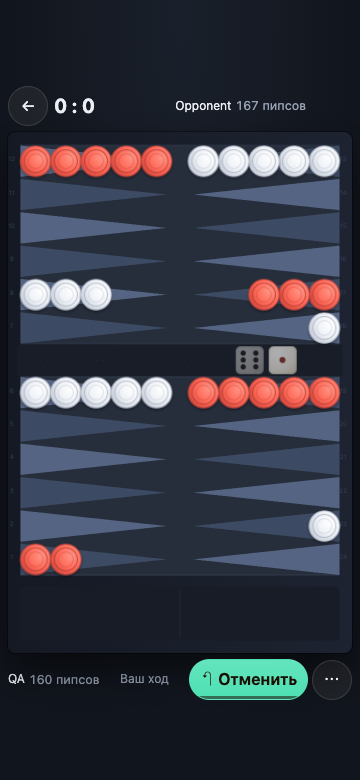
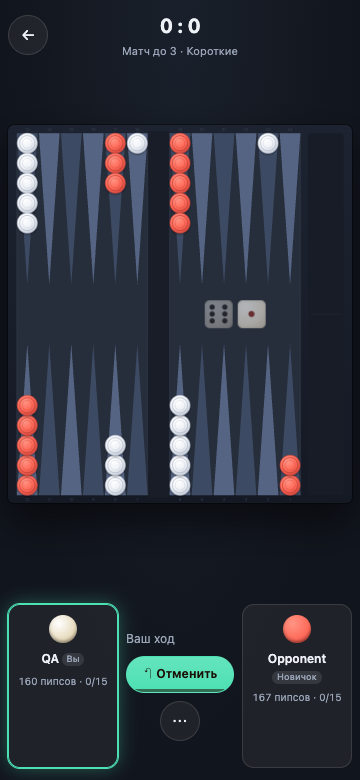
feat(web): restore unrotated board and player panels on phones

diff --git a/apps/web/src/screens/Game.tsx b/apps/web/src/screens/Game.tsx
@@ -34,17 +34,17 @@ interface Pending {
   ts: TurnState;
 }
 
-function useVertical(): boolean {
+function useCompactLayout(): boolean {
   const query = '(orientation: portrait) and (max-width: 767px)';
-  const [vertical, setVertical] = useState(() => matchMedia(query).matches);
+  const [compact, setCompact] = useState(() => matchMedia(query).matches);
   useEffect(() => {
     const media = matchMedia(query);
-    const update = () => setVertical(media.matches);
+    const update = () => setCompact(media.matches);
     update();
     media.addEventListener('change', update);
     return () => media.removeEventListener('change', update);
   }, []);
-  return vertical;
+  return compact;
 }
 
 function useNow(active: boolean, every = 250): number {
@@ -72,7 +72,7 @@ function stepSound(s: Step) {
 
 export function GameScreen({ onExit }: { onExit: () => void }) {
   const T = useT();
-  const vertical = useVertical();
+  const compact = useCompactLayout();
   const [moreOpen, setMoreOpen] = useState(false);
   const g = useGame();
   const st = useSettings();
@@ -420,37 +420,25 @@ export function GameScreen({ onExit }: { onExit: () => void }) {
     );
   };
 
-  const compactPlayer = (c: Color) => {
-    const clock = clockFor(c);
-    return <div className="compact-player">
-      <span className="compact-name">{nameOf(c)}</span>
-      {g.players[c] && !g.players[c]!.connected && <span className="tag warn">{T.offline}</span>}
-      <span className="pmeta" data-pips={c === viewer ? 'me' : 'opp'}>{pipCount(board, c)} {T.pips}</span>
-      {clock && <span className={'clock' + (clock.low ? ' low' : '')}>{clock.text}</span>}
-      {m.cube.owner === c && m.settings.cube && <Cube value={m.cube.value} />}
-    </div>;
-  };
-
   const nextIn = clocks?.nextGameAt ? Math.max(0, clocks.nextGameAt - (g.mode === 'online' ? serverNow : now)) : null;
 
   return (
-    <div className={'game theme-' + st.theme + (vertical ? ' phone-game' : '')}>
+    <div className={'game theme-' + st.theme + (compact ? ' phone-game' : '')}>
       <header className="game-top">
         <button className="icon-btn" onClick={onExit} aria-label={T.toMenu}>
           ←
         </button>
         <div className="score">
-          {!vertical && <span>{nameOf(0)}</span>}
+          {!compact && <span>{nameOf(0)}</span>}
           <b>
             {m.score[0]} : {m.score[1]}
           </b>
-          {!vertical && <span>{nameOf(1)}</span>}
-          {!vertical && <small>
+          {!compact && <span>{nameOf(1)}</span>}
+          <small>
             {T.matchLength} {m.settings.matchLength} · {variant === 'long' ? T.long : T.short}
             {m.crawford ? ` · ${T.crawford}` : ''}
-          </small>}
+          </small>
         </div>
-        {vertical && compactPlayer(opp)}
         {g.mode === 'online' ? (
           <button className="icon-btn" onClick={() => setChatOpen((o) => !o)} aria-label={T.chat}>
             💬{g.chat.length > 0 && !chatOpen ? <i className="dot" /> : null}
@@ -460,11 +448,11 @@ export function GameScreen({ onExit }: { onExit: () => void }) {
         )}
       </header>
 
-      {!vertical && playerBar(opp)}
+      {!compact && playerBar(opp)}
 
-      <div className={'board-wrap' + (vertical ? ' vertical' : '')}>
+      <div className={'board-wrap' + (compact ? ' compact-board' : '')}>
         <BoardView
-          vertical={vertical}
+          cross={compact ? 1100 : 800}
           board={board}
           variant={variant}
           viewer={viewer}
@@ -511,7 +499,7 @@ export function GameScreen({ onExit }: { onExit: () => void }) {
             {!st.autoRoll && <button className="btn primary big" onClick={doRoll}>
               🎲 {T.roll}
             </button>}
-            {mayDouble && !doubled && !vertical && (
+            {mayDouble && !doubled && !compact && (
               <button className="btn gold" onClick={() => { setDoubled(true); ctrl.double(); }}>
                 ×2 {T.double}
                 {st.autoRoll && <i className="countdown" style={{ ['--ms' as string]: `${DOUBLE_MS}ms` }} />}
@@ -617,10 +605,11 @@ export function GameScreen({ onExit }: { onExit: () => void }) {
         {g.conn !== 'open' && <div className="conn-banner">{g.conn === 'connecting' ? T.connecting : T.reconnecting}</div>}
       </div>
 
-      {!vertical && playerBar(viewer, true)}
+      {!compact && playerBar(viewer, true)}
 
+      <div className={compact ? 'mobile-hud' : 'desktop-hud'}>
+      {compact && playerBar(viewer, true)}
       <div className="controls">
-        {vertical && compactPlayer(viewer)}
         <span className="status">{statusText}</span>
         {pending && !sent && (
           <>
@@ -644,20 +633,23 @@ export function GameScreen({ onExit }: { onExit: () => void }) {
             {T.claimWin}
           </button>
         )}
-        {!vertical && m.phase !== 'gameover' && m.phase !== 'matchover' && (g.mode === 'local' || act !== null) && (
+        {!compact && m.phase !== 'gameover' && m.phase !== 'matchover' && (g.mode === 'local' || act !== null) && (
           <button className="btn subtle" onClick={() => setConfirmResign(true)}>
             ⚑ {T.resign}
           </button>
         )}
-        {vertical && mayDouble && !doubled && <button className="btn gold" onClick={() => { setDoubled(true); ctrl.double(); }}>
+        {compact && mayDouble && !doubled && <button className="btn gold" onClick={() => { setDoubled(true); ctrl.double(); }}>
           ×2 {T.double}
           {st.autoRoll && <i className="countdown" style={{ ['--ms' as string]: `${DOUBLE_MS}ms` }} />}
         </button>}
-        {vertical && <button className="icon-btn" aria-label={T.more} onClick={() => setMoreOpen((open) => !open)}>⋯</button>}
+        {compact && <button className="icon-btn" aria-label={T.more} onClick={() => setMoreOpen((open) => !open)}>⋯</button>}
       </div>
 
-      {(!vertical || moreOpen) && <div className={vertical ? 'phone-more' : undefined}>
-      {vertical && <button className="icon-btn" aria-label={T.back} onClick={() => setMoreOpen(false)}>✕</button>}
+      {compact && playerBar(opp)}
+      </div>
+
+      {(!compact || moreOpen) && <div className={compact ? 'phone-more' : undefined}>
+      {compact && <button className="icon-btn" aria-label={T.back} onClick={() => setMoreOpen(false)}>✕</button>}
       <div className="emoji-bar">
         {EMOJIS.map((e) => (
           <button key={e} onClick={() => ctrl.emoji(e)} aria-label={e}>
@@ -666,7 +658,7 @@ export function GameScreen({ onExit }: { onExit: () => void }) {
         ))}
       </div>
 
-      {vertical && <button className="btn subtle" onClick={() => { setMoreOpen(false); setConfirmResign(true); }}>⚑ {T.resign}</button>}
+      {compact && <button className="btn subtle" onClick={() => { setMoreOpen(false); setConfirmResign(true); }}>⚑ {T.resign}</button>}
       </div>}
 
       {chatOpen && g.mode === 'online' && (

diff --git a/apps/web/src/components/Board.tsx b/apps/web/src/components/Board.tsx
@@ -23,7 +23,7 @@ import type { Theme } from '../lib/settings';
 
 export interface BoardProps {
   board: BoardT;
-  vertical: boolean;
+  cross?: 800 | 1100;
   variant: Variant;
   viewer: Color;
   theme: Theme;
@@ -45,7 +45,7 @@ export interface BoardProps {
 
 // ───────────────────────────── static board ─────────────────────────────
 
-const Defs = ({ th, id, vertical }: { th: BoardTheme; id: string; vertical: boolean }) => (
+const Defs = ({ th, id }: { th: BoardTheme; id: string }) => (
   <defs>
     <filter id={`${id}-grain`} x="0" y="0" width="100%" height="100%">
       <feTurbulence type="fractalNoise" baseFrequency="0.0035 0.09" numOctaves="3" seed="7" />
@@ -58,10 +58,10 @@ const Defs = ({ th, id, vertical }: { th: BoardTheme; id: string; vertical: bool
       <feComposite in2="SourceGraphic" operator="in" />
     </filter>
     <filter id={`${id}-shadow`} x="-30%" y="-30%" width="160%" height="160%">
-      <feDropShadow dx={vertical ? 3 : 0} dy={vertical ? 0 : 3} stdDeviation="2.5" floodColor="#000" floodOpacity="0.45" />
+      <feDropShadow dx="0" dy="3" stdDeviation="2.5" floodColor="#000" floodOpacity="0.45" />
     </filter>
     <filter id={`${id}-lift`} x="-50%" y="-50%" width="200%" height="200%">
-      <feDropShadow dx={vertical ? 8 : 0} dy={vertical ? 0 : 8} stdDeviation="5" floodColor="#000" floodOpacity="0.45" />
+      <feDropShadow dx="0" dy="8" stdDeviation="5" floodColor="#000" floodOpacity="0.45" />
     </filter>
     <filter id={`${id}-glow`} x="-50%" y="-50%" width="200%" height="200%">
       <feGaussianBlur stdDeviation="4" result="b" />
@@ -94,7 +94,7 @@ function pointPath(slot: number, g: Geometry): string {
   return `M${cx - half},${BOTTOM} L${cx + half},${BOTTOM} L${cx},${BOTTOM - POINT_LEN} Z`;
 }
 
-const StaticBoard = memo(function StaticBoard({ th, id, g, vertical }: { th: BoardTheme; id: string; g: Geometry; vertical: boolean }) {
+const StaticBoard = memo(function StaticBoard({ th, id, g }: { th: BoardTheme; id: string; g: Geometry }) {
   const { TOP, BOTTOM, MID_Y, VB_H } = g;
   const fieldRects = [
     { x: LEFT_X, w: PW * 6 },
@@ -121,7 +121,7 @@ const StaticBoard = memo(function StaticBoard({ th, id, g, vertical }: { th: Boa
       <rect x={TRAY_X} y={TOP} width={TRAY_W} height={BOTTOM - TOP} rx="8" fill={th.tray} />
       <line x1={TRAY_X + 8} y1={MID_Y} x2={TRAY_X + TRAY_W - 8} y2={MID_Y} stroke={th.inlay} strokeOpacity="0.45" />
       {Array.from({ length: 24 }, (_, s) => (
-        <text key={s} transform={vertical ? `rotate(-90 ${slotX(s)} ${isTop(s) ? TOP - 7 : BOTTOM + 17})` : undefined} x={slotX(s)} y={isTop(s) ? TOP - 7 : BOTTOM + 17} fontSize="12" textAnchor="middle" fill={th.inlay} opacity="0.75" style={{ userSelect: 'none' }}>
+        <text key={s} x={slotX(s)} y={isTop(s) ? TOP - 7 : BOTTOM + 17} fontSize="12" textAnchor="middle" fill={th.inlay} opacity="0.75" style={{ userSelect: 'none' }}>
           {s + 1}
         </text>
       ))}
@@ -143,7 +143,7 @@ interface CheckerRender {
 }
 
 export function BoardView(p: BoardProps) {
-  const g = useMemo(() => geom(p.vertical ? 660 : 800), [p.vertical]);
+  const g = useMemo(() => geom(p.cross ?? 800), [p.cross]);
   const { TOP, BOTTOM, MID_Y, VB_H, checkerPos, offPos, barPos, locAt } = g;
   const th = THEMES[p.theme];
   const uid = 'b' + p.theme;
@@ -192,9 +192,7 @@ export function BoardView(p: BoardProps) {
   const toSvg = (e: React.PointerEvent) => {
     const svg = svgRef.current!;
     const r = svg.getBoundingClientRect();
-    const X = ((e.clientX - r.left) / r.width) * (p.vertical ? 660 : VB_W);
-    const Y = ((e.clientY - r.top) / r.height) * (p.vertical ? VB_W : 800);
-    return p.vertical ? { x: Y, y: 660 - X } : { x: X, y: Y };
+    return { x: ((e.clientX - r.left) / r.width) * VB_W, y: ((e.clientY - r.top) / r.height) * VB_H };
   };
 
   const onPointerDown = (e: React.PointerEvent) => {
@@ -237,7 +235,7 @@ export function BoardView(p: BoardProps) {
     <svg
       ref={svgRef}
       className="board-svg"
-      viewBox={p.vertical ? '0 0 660 1000' : `0 0 ${VB_W} ${VB_H}`}
+      viewBox={`0 0 ${VB_W} ${VB_H}`}
       role="img"
       aria-label={p.label}
       onPointerDown={onPointerDown}
@@ -248,9 +246,9 @@ export function BoardView(p: BoardProps) {
         setGhost(null);
       }}
     >
-      <Defs th={th} id={uid} vertical={p.vertical} />
-      <g transform={p.vertical ? 'matrix(0 1 -1 0 660 0)' : undefined}>
-      <StaticBoard th={th} id={uid} g={g} vertical={p.vertical} />
+      <Defs th={th} id={uid} />
+      <g>
+      <StaticBoard th={th} id={uid} g={g} />
 
       {/* last move markers */}
       {[...p.lastMove].map((loc) =>
@@ -306,7 +304,7 @@ export function BoardView(p: BoardProps) {
                   </g>
                 )}
                 {c.top && c.count > 5 && (
-                  <text transform={p.vertical ? 'rotate(-90)' : undefined} y="0" dominantBaseline="central" fontSize="26" fontWeight="700" textAnchor="middle" fill={c.color === 0 ? '#3a2a14' : '#fff'}>
+                  <text y="0" dominantBaseline="central" fontSize="26" fontWeight="700" textAnchor="middle" fill={c.color === 0 ? '#3a2a14' : '#fff'}>
                     {c.count}
                   </text>
                 )}

diff --git a/apps/web/src/styles.css b/apps/web/src/styles.css
@@ -873,22 +873,23 @@ input:focus {
 .undo-send, .center-actions .btn.gold, .controls .btn.gold { position: relative; overflow: hidden; }
 @media (prefers-reduced-motion: reduce) { .countdown { animation: none; opacity: 0; } }
 
-.board-wrap.vertical { min-height: 0; aspect-ratio: 660 / 1000; width: min(100%, calc((100dvh - 120px) * 0.66)); --die: 8cqw; }
-.board-wrap.vertical .dice-tray, .board-wrap.vertical .dice-tray.single { top: 43.8%; }
-.board-wrap.vertical .dice-tray.right { left: 75%; }
-.board-wrap.vertical .dice-tray.left { left: 25%; }
-.board-wrap.vertical .center-actions { top: 72%; left: 50%; }
-.board-wrap.vertical .toast { top: 30%; left: 50%; }
-.board-wrap.vertical .ck.dragging { filter: drop-shadow(10px 0 8px rgba(0, 0, 0, 0.45)); }
-.board-wrap.vertical .cup-layer { left: 50%; top: 72%; }
-.phone-game .game-top { gap: 6px; }
-.phone-game .score { display: block; flex: none; }
-.compact-player { display: flex; align-items: center; gap: 4px; min-width: 0; flex-wrap: wrap; font-size: 12px; }
-.compact-name { max-width: 100px; overflow: hidden; text-overflow: ellipsis; white-space: nowrap; }
-.phone-game .game-top .compact-player { flex: 1; justify-content: flex-end; }
-.phone-game .controls { flex-wrap: wrap; gap: 4px; }
-.phone-game .controls .compact-player { margin-right: auto; }
-.phone-game .controls .status { flex: none; font-size: 12px; }
-.phone-game .controls .btn { padding: 8px 10px; }
-.phone-game .clock { font-size: 12px; padding: 2px 4px; }
+
+/* Portrait phone composition: unrotated board, both players below it. */
+.desktop-hud { display: contents; }
+.phone-game { justify-content: flex-start; padding-top: max(12px, env(safe-area-inset-top)); padding-bottom: max(12px, env(safe-area-inset-bottom)); gap: 12px; }
+.phone-game .game-top { gap: 8px; padding-top: 0; }
+.phone-game .score { grid-template-columns: 1fr; gap: 3px; }
+.phone-game .score small { font-size: 11px; }
+.board-wrap.compact-board { min-height: 0; aspect-ratio: 1000 / 1100; width: min(100%, calc((100dvh - 290px) * 1000 / 1100)); margin-top: clamp(12px, 7dvh, 56px); --die: 8cqw; }
+.mobile-hud { width: 100%; display: grid; grid-template-columns: minmax(0, 1fr) 108px minmax(0, 1fr); align-items: stretch; gap: 8px; margin-top: auto; min-height: 164px; }
+.mobile-hud .pbar { flex-direction: column; justify-content: center; text-align: center; padding: 10px 4px; gap: 8px; }
+.mobile-hud .pchip { width: 28px; height: 28px; flex: none; }
+.mobile-hud .pinfo { width: 100%; }
+.mobile-hud .pname { justify-content: center; flex-wrap: wrap; white-space: normal; overflow-wrap: anywhere; font-size: 12px; gap: 3px; }
+.mobile-hud .pmeta { font-size: 10px; margin-top: 6px; }
+.mobile-hud .tag { font-size: 9px; }
+.mobile-hud .clock { margin: 0; font-size: 12px; padding: 3px 5px; }
+.mobile-hud .controls { width: 100%; flex-direction: column; justify-content: center; flex-wrap: nowrap; gap: 8px; }
+.mobile-hud .controls .status { flex: none; text-align: center; font-size: 12px; }
+.mobile-hud .controls .btn { width: 100%; padding: 9px 4px; font-size: 12px; }
 .phone-more { position: absolute; z-index: 10; bottom: 12px; left: 8px; right: 8px; background: var(--bg); border: 1px solid var(--panel-b); border-radius: 12px; padding: 8px; box-shadow: 0 6px 30px #0008; }

diff --git a/apps/web/src/components/geometry.ts b/apps/web/src/components/geometry.ts
@@ -92,13 +92,13 @@ export function assignIds(prev: Map<Loc, number[]> | null, counts: Map<Loc, numb
   return next;
 }
 
-/** Board-local coordinates; callers rotate the 660-unit board clockwise. */
-export function geom(cross: 800 | 660) {
+/** Unrotated board coordinates; portrait phones use longer points. */
+export function geom(cross: 800 | 1100) {
   const VB_H = cross;
   const TOP = FRAME;
   const BOTTOM = cross - FRAME;
   const MID_Y = cross / 2;
-  const POINT_LEN = cross === 660 ? 280 : 320;
+  const POINT_LEN = cross === 1100 ? 440 : 320;
 function checkerPos(slot: number, k: number, n: number): { x: number; y: number } {
   const sp = stackSpacing(n);
   const x = slotX(slot);

diff --git a/docs/superpowers/plans/2026-11-15-mobile-ux-rejoin.md b/docs/superpowers/plans/2026-11-15-mobile-ux-rejoin.md
@@ -478,3 +478,10 @@ Round 3 (Opus, fresh context) — 0 P0/P1; rounds 1-2 fixes confirmed by executi
 | 1440x900 | malachite | 0.6666666667 | 43.500000 | 4/4 | 290/290 |
 
 - Screenshots:90 committed PNGs under docs/design/impl-screens (Tasks2-5:9 each; final six-state matrix:54). Starting theme colors, rotation mapping and compact phone layout retained. Approved-design comparison: **not verified: approved screens absent; owner explicitly authorized starting plan values.** Original pre-implementation red runs for reused Tasks0-1 were not recreated as historical evidence; current gates and the server reclaim break-check were run. No localhost/Chrome gate was skipped. Both owned Wrangler processes stopped. Branch retained locally; no merge, push or deployment.
+
+### Owner revision: unrotated phone layout (2026-11-15)
+
+- Owner explicitly canceled the rotated board on every screen and supplied a composition reference, not a theme/style reference. This supersedes the earlier vertical-board geometry and its phone height/diameter gates. Existing themes, turn flow, hints, stacks, rejoin and review fixes remain.
+- Removed the BoardView rotation option, rotation matrices, inverse pointer rotation, counter-rotated text, directional shadows and vertical CSS. Board coordinates always run x horizontally/y vertically. Portrait phone sizing uses unrotated 1000x1100 geometry with longer points; other screens retain 1000x800. Both player panels now sit below the phone board with status, undo, doubling and More between them; compact score/match header above. Reference appearance and avatars were not copied.
+- Build and all workspace typechecks EXIT=0. Updated layout gate: 9 width/theme pages, all rotated=false, checkers outside board:none, console errors0; phone viewBox 0 0 1000 1100, height ratio0.485116, diameter19.9515px; tablet/desktop viewBox0 0 1000 800. Input: tap167->163, drag167->164, landscape780x360 uses standard geometry, EXIT=0. State matrix:63 pages, four movable rings vs4 expected, selected targets2 vs2, 10-stack height290, console errors0, EXIT=0. Full e2e EXIT=0: undo restored350 pips, drop/reject recovery seq3->4, auto-roll reconnect2 frames, stack top6, opponent dimmed0, ghost/tray checks green, online pips136/151, rejoin/reload/fresh tab green, shake dice2, ERRORS=[].
+- Refreshed final state screenshots and added unrotated-{width}-{theme}.png for360/768/1440 x wood/minimal/malachite. Historical Task5 images/log above describe the superseded layout; final-* and unrotated-* images show this revision. No push, merge or deployment.
